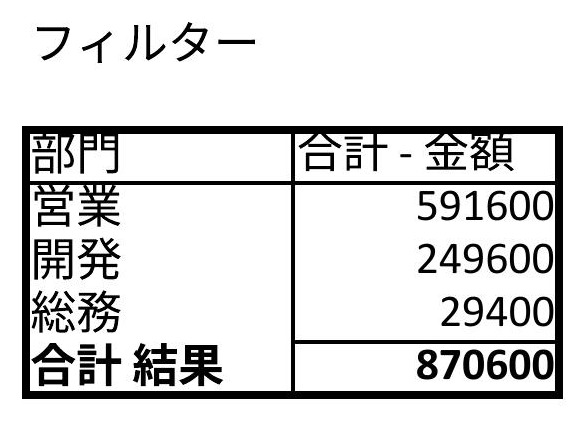
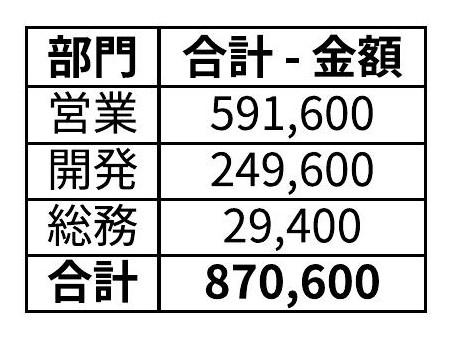
ailine LP: ピボット図を清潔な集計表に差し替え＋太字の限界記述を訂正
罫線が文字に被り行間の罫線も無い旧ピボット図(素の DataPilot)を、native の
SummaryTable が出す清潔な集計表(格子・カンマ・合計太字)に差し替え。?v=2 でキャッシュ破棄。
『太字は openpyxl で後付け』の記述は誤りだったので削除し、native 太字を確認済みに移動。
テスト数 21→20 に修正。

diff --git a/ailine.html b/ailine.html
@@ -97,8 +97,8 @@
         <p class="cap" style="text-align:left;padding-left:0">「金額の棒グラフを作って」― タイトル・軸は見出しから自動。LibreOffice の本物のグラフ</p>
       </div>
       <div>
-        <figure class="mat" style="max-width:420px"><img src="assets/ailine-pivot.jpg" alt="ailine が自然言語から作った、部門ごとの金額合計のピボットテーブル"></figure>
-        <p class="cap" style="text-align:left;padding-left:0">「部門ごとの金額をピボットで」― 本物の DataPilot ピボット。Excel でも生きています</p>
+        <figure class="mat" style="max-width:420px"><img src="assets/ailine-pivot.jpg?v=2" alt="ailine が自然言語から作った、部門ごとに金額を集計した表（格子罫線・カンマ・合計行つき）"></figure>
+        <p class="cap" style="text-align:left;padding-left:0">「部門ごとの金額を集計表に」― 罫線・カンマ・合計まで整えた表。本物のピボット(DataPilot)も生成できます</p>
       </div>
     </div>
     <p class="lead" style="margin-top:34px">ローカルの小さな AI（<code>qwen2.5-coder:7b</code>）でも、値・論理・書式は
@@ -135,17 +135,17 @@ python ailine.py run 見積.xlsx "..." --model qwen2.5-coder:32b</pre>
       <ul>
         <li><b>ローカルの LLM と LibreOffice が要ります。</b>外部にデータは送りませんが、そのぶん手元の環境に依存します。</li>
         <li><b>珍しい操作は、小さいモデルほど外します。</b>検証済みのヘルパで補いますが、載っていない操作は当たり率が落ちます。</li>
-        <li><b>フォントの太字</b>は、この LibreOffice 経路では書き出されないため、<b>openpyxl で後付け</b>しています（描画で確認済み）。</li>
         <li><b>検証は「変化したこと」までを保証します。</b>「<b>正しいか</b>」は保証しません ― 出力の差分を人が見て判断します。道具も、必ずそう促します。</li>
       </ul>
     </div>
     <div class="limits" style="margin-top:24px;border-left-color:#8fa3bd">
       <h3>確認した</h3>
       <ul>
-        <li><b>並べ替え・グラフ・ピボット・VLOOKUP・条件付き色・罫線・結合</b>が、自然言語から動くこと ― 値だけでなく<b>描画して見た目も</b>確認しました。</li>
+        <li><b>並べ替え・グラフ・集計表・ピボット・VLOOKUP・条件付き色・罫線・結合・中央揃え・太字</b>が、自然言語から動くこと ― 値だけでなく<b>描画して見た目も</b>確認しました。</li>
+        <li><b>太字は native で書き出せます</b>（日本語は <code>CharWeightAsian</code> が要る点を実測で押さえました）。数値も壊れません。</li>
         <li><b>実務的な通し試験</b>（1 つの表に 8 操作を連続適用）が、値の検算と描画の両方で破綻しないこと。</li>
         <li>原本は触らず<b>コピーに適用</b>すること。処理後も、通常の <code>.xlsx</code> であること。</li>
-        <li>テストは緑（純ロジック 21 件）。このページも幅を変えて描画し、崩れと折り返しを確認しています。</li>
+        <li>テストは緑（純ロジック 20 件）。このページも幅を変えて描画し、崩れと折り返しを確認しています。</li>
       </ul>
     </div>
   </div>

diff --git a/ailine.en.html b/ailine.en.html
@@ -96,8 +96,8 @@
         <p class="cap" style="text-align:left;padding-left:0">“Make a bar chart of the amounts.” Title and axis derived from the headers. A real LibreOffice chart.</p>
       </div>
       <div>
-        <figure class="mat" style="max-width:420px"><img src="assets/ailine-pivot.jpg" alt="A pivot table of amount totals by department that ailine built from natural language"></figure>
-        <p class="cap" style="text-align:left;padding-left:0">“Pivot the amounts by department.” A real DataPilot pivot. It stays live in Excel too.</p>
+        <figure class="mat" style="max-width:420px"><img src="assets/ailine-pivot.jpg?v=2" alt="A department-by-amount summary table that ailine built from natural language, with borders, commas and a total row"></figure>
+        <p class="cap" style="text-align:left;padding-left:0">“Summarize the amounts by department.” A clean table with borders, commas and a total. It can also generate a real DataPilot pivot.</p>
       </div>
     </div>
     <p class="lead" style="margin-top:34px">Even a small local model (<code>qwen2.5-coder:7b</code>) writes values, logic, and formatting
@@ -135,17 +135,17 @@ python ailine.py run quote.xlsx "..." --model qwen2.5-coder:32b</pre>
       <ul>
         <li><b>A local LLM and LibreOffice are required.</b> No data is sent out, but in exchange it depends on your own machine.</li>
         <li><b>Rare operations are missed more by smaller models.</b> Verified helpers cover them, but anything not covered has a lower hit rate.</li>
-        <li><b>Font bold</b> is not exported through this LibreOffice path, so it is <b>applied afterward with openpyxl</b> (confirmed by rendering).</li>
         <li><b>Verification guarantees that something changed.</b> It does not guarantee it is <b>correct</b>: the output diff is judged by a human, and the tool always prompts for that.</li>
       </ul>
     </div>
     <div class="limits" style="margin-top:24px;border-left-color:#8fa3bd">
       <h3>Verified</h3>
       <ul>
-        <li><b>Sorting, charts, pivots, VLOOKUP, conditional color, borders, merges</b> work from natural language, confirmed not just by values but <b>by rendering and looking</b>.</li>
+        <li><b>Sorting, charts, summary tables, pivots, VLOOKUP, conditional color, borders, merges, centering, bold</b> work from natural language, confirmed not just by values but <b>by rendering and looking</b>.</li>
+        <li><b>Bold is written natively</b> (Japanese bold needs <code>CharWeightAsian</code>, pinned down by measurement). Numbers are not corrupted.</li>
         <li>A <b>realistic end-to-end run</b> (eight operations applied in a row to one table) holds up under both value checks and rendering.</li>
         <li>The original is untouched; a <b>copy is edited</b>. After processing it is an ordinary <code>.xlsx</code>.</li>
-        <li>Tests are green (21 pure-logic). This page too was rendered at different widths to check layout and wrapping.</li>
+        <li>Tests are green (20 pure-logic). This page too was rendered at different widths to check layout and wrapping.</li>
       </ul>
     </div>
   </div>
